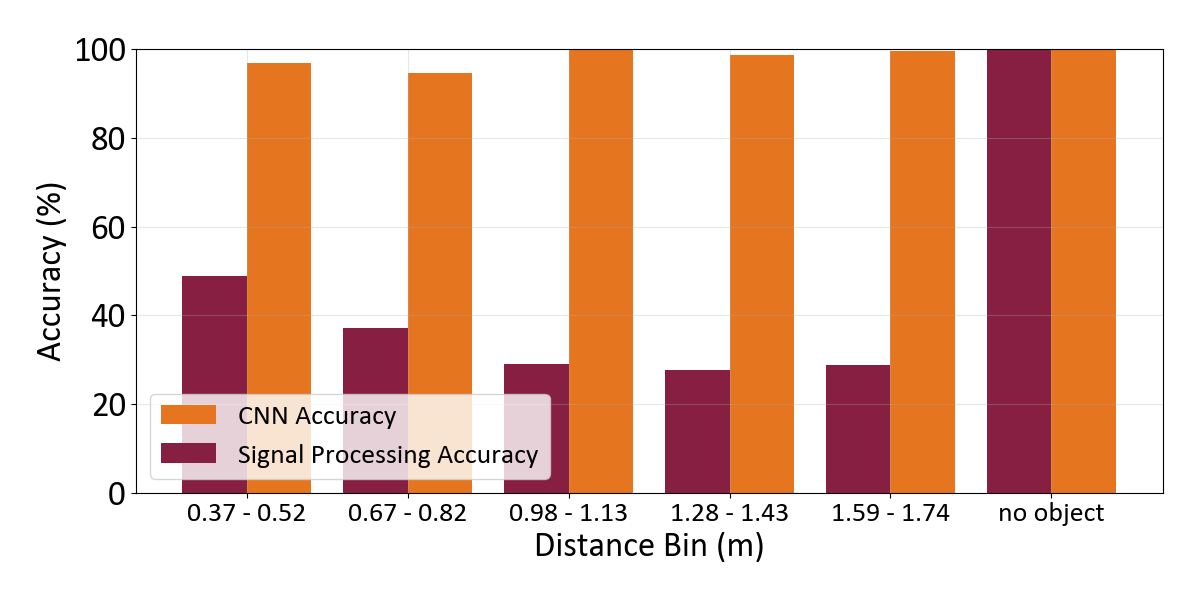
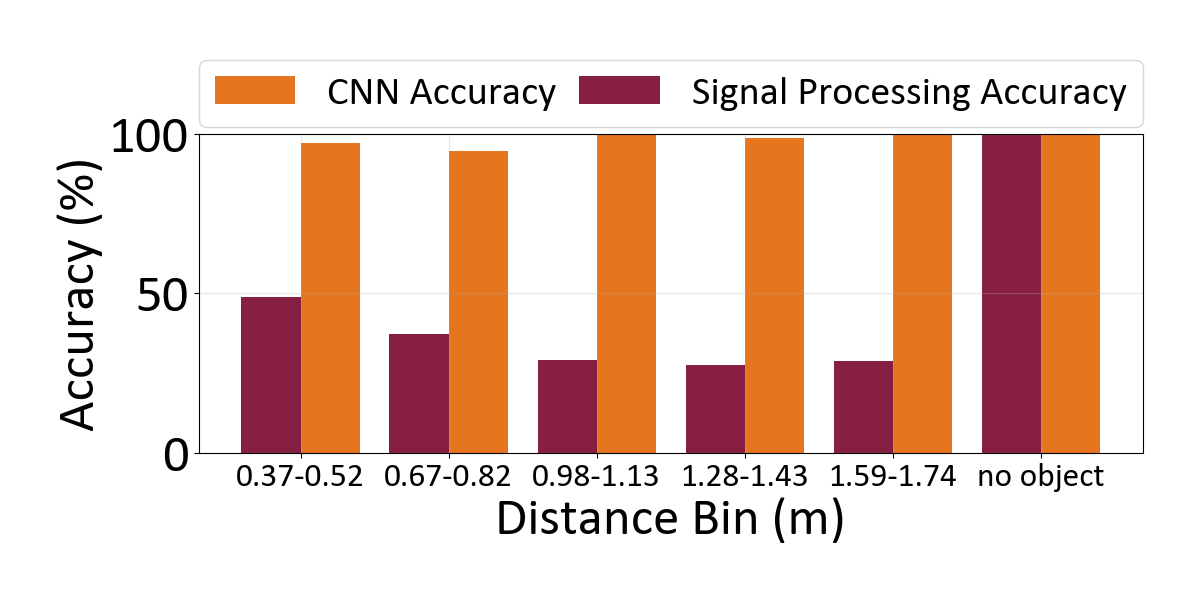
Updated plotting stuff

Changed region(s): [[0.0308, 0.06, 0.9558, 0.93], [0.0617, 0.06, 0.1233, 0.12], [0.0925, 0.81, 0.1233, 0.84]]

diff --git a/data_analysis.py b/data_analysis.py
@@ -180,7 +180,7 @@ def create_distribution_charts(results, output_dir="accuracy_plots"):
 
     # Set font to Calibri and increase font size to 30
     plt.rcParams['font.family'] = 'Calibri'
-    plt.rcParams['font.size'] = 25
+    plt.rcParams['font.size'] = 38
 
     # Plot CNN Accuracy bars shifted to the left
     plt.bar(x_indices + bar_width / 2, ML_accuracies, bar_width, label='CNN Accuracy', color='#E5751F')
@@ -189,15 +189,15 @@ def create_distribution_charts(results, output_dir="accuracy_plots"):
     plt.bar(x_indices - bar_width / 2, accuracies, bar_width, label='Signal Processing Accuracy', color='#861F41')
 
     # Adjust x-ticks to align with the center of the grouped bars
-    bin_names_formatted = [bin_name.replace("-", " - ").replace("_", " ") for bin_name in bin_names]
+    bin_names_formatted = [bin_name.replace("_", " ") for bin_name in bin_names]
     plt.xticks(x_indices, bin_names_formatted)
     # plt.title('Accuracy by Distance Bin')
     plt.xlabel('Distance Bin (m)')
     plt.ylabel('Accuracy (%)')
     plt.ylim(0, 100)
     plt.grid(True, alpha=0.3)
-    plt.xticks(rotation=0, ha='center', fontsize=20)
-    plt.legend(loc='lower left', fontsize=20)
+    plt.xticks(rotation=0, ha='center', fontsize=24)
+    plt.legend(loc='lower left', fontsize=29, bbox_to_anchor=(0., 1.02, 1., .102), ncol=2, mode="expand", borderaxespad=0.)
     
     # Save the summary plot
     summary_path = os.path.join(output_dir, "accuracy_summary.png")
